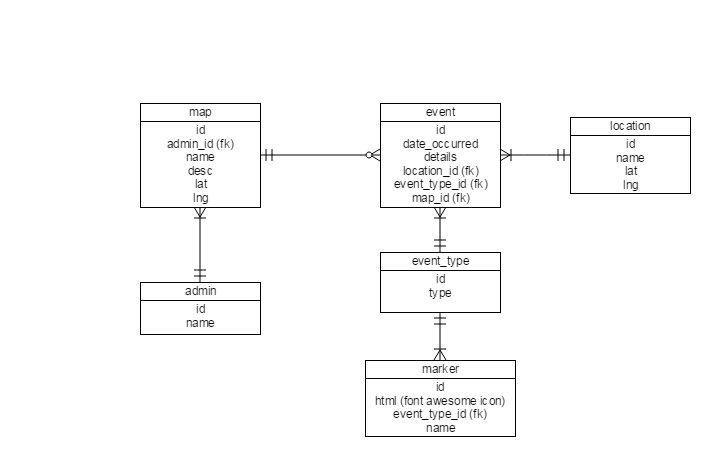
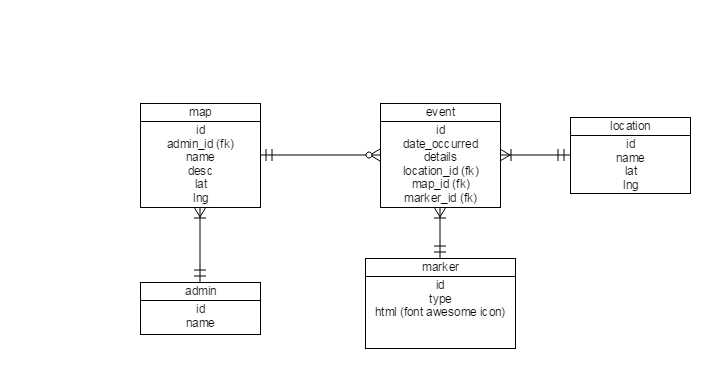
update db and erd

diff --git a/resources/views/maps/map.blade.php b/resources/views/maps/map.blade.php
@@ -13,6 +13,76 @@
 
   <div id="map-canvas" class="map"></div>
 
+  {!! Form::open([ 'action' => 'MapController@createEvent', 'class' => 'clearfix', 'style' => 'padding:1em 3em;']) !!}
+  {!! Form::hidden('map_id', $map->id) !!}
+    <fieldset>
+      <legend>Add Event</legend>
+      <div class="row">
+        <div class="input-field col s4">
+          <input placeholder="" id="lat" name="lat" type="text" class="validate">
+          <label for="lat">Latitude</label>
+          {!! $errors->first('lat', '<p class="text-danger" style="padding:1em;">:message</p>') !!}
+        </div>
+        <div class="input-field col s4">
+          <input placeholder="" id="lng" name="lng" type="text" class="validate">
+          <label for="lng">Longitude</label>
+          {!! $errors->first('lng', '<p class="text-danger" style="padding:1em;">:message</p>') !!}
+        </div>
+        <div class="input-field col s4">
+          <input type="date" class="datepicker">
+        </div>
+      </div>
+
+      <div class="row">
+        <div class="input-field col s12">
+          <textarea placeholder="" id="details" name="details" type="text" class="materialize-textarea validate"></textarea>
+          <label for="details">Details</label>
+          {!! $errors->first('details', '<p class="text-danger" style="padding:1em;">:message</p>') !!}
+        </div>
+      </div>
+
+      <div class="row center">
+        <button class="btn btn-success" type="submit">Create</button>
+      </div>
+    </fieldset>
+  <br>
+  {!! Form::close() !!}
+
+  {!! Form::open([ 'action' => 'MapController@createMarker', 'class' => 'clearfix', 'style' => 'padding:1em 3em;']) !!}
+  {!! Form::hidden('map_id', $map->id) !!}
+  <fieldset>
+    <legend>Add Event</legend>
+    <div class="row">
+      <div class="input-field col s4">
+        <input placeholder="" id="lat" name="lat" type="text" class="validate">
+        <label for="lat">Latitude</label>
+        {!! $errors->first('lat', '<p class="text-danger" style="padding:1em;">:message</p>') !!}
+      </div>
+      <div class="input-field col s4">
+        <input placeholder="" id="lng" name="lng" type="text" class="validate">
+        <label for="lng">Longitude</label>
+        {!! $errors->first('lng', '<p class="text-danger" style="padding:1em;">:message</p>') !!}
+      </div>
+      <div class="input-field col s4">
+        <input type="date" class="datepicker">
+      </div>
+    </div>
+
+    <div class="row">
+      <div class="input-field col s12">
+        <textarea placeholder="" id="details" name="details" type="text" class="materialize-textarea validate"></textarea>
+        <label for="details">Details</label>
+        {!! $errors->first('details', '<p class="text-danger" style="padding:1em;">:message</p>') !!}
+      </div>
+    </div>
+
+    <div class="row center">
+      <button class="btn btn-success" type="submit">Create</button>
+    </div>
+  </fieldset>
+  <br>
+  {!! Form::close() !!}
+
 </div>
 <br><br>
 <style>
@@ -22,6 +92,13 @@
     display: block;
   }
 </style>
+
+<script>
+  $('.datepicker').pickadate({
+    selectMonths: true, // Creates a dropdown to control month
+    selectYears: 15 // Creates a dropdown of 15 years to control year
+  });
+</script>
 
 <script>
   function initialize() {

diff --git a/app/Http/Requests/StoreEventRequest.php b/app/Http/Requests/StoreEventRequest.php
@@ -1,0 +1,30 @@
+<?php
+
+namespace App\Http\Requests;
+
+use App\Http\Requests\Request;
+
+class StoreEventRequest extends Request
+{
+    /**
+     * Determine if the user is authorized to make this request.
+     *
+     * @return bool
+     */
+    public function authorize()
+    {
+        return false;
+    }
+
+    /**
+     * Get the validation rules that apply to the request.
+     *
+     * @return array
+     */
+    public function rules()
+    {
+        return [
+            //
+        ];
+    }
+}

diff --git a/database/migrations/2016_06_20_210400_create_event_table.php b/database/migrations/2016_06_20_210400_create_event_table.php
@@ -22,7 +22,7 @@ class CreateEventTable extends Migration
             $table->integer('marker_id')->unsigned();
             $table->foreign('marker_id')->references('id')->on('marker');
             $table->integer('map_id')->unsigned();
-            $table->foreign('map_id')->references('id')->on('admin');
+            $table->foreign('map_id')->references('id')->on('map');
         });
     }
 

diff --git a/app/Http/Controllers/MapController.php b/app/Http/Controllers/MapController.php
@@ -31,4 +31,10 @@ class MapController extends Controller
         $map = Map::with(['events'])->find($id);
         return view('maps.map', compact('map'));
     }
+
+    public function createEvent(Requests\StoreEventRequest $request)
+    {
+        dd($request);
+
+    }
 }

diff --git a/app/Http/routes.php b/app/Http/routes.php
@@ -15,3 +15,5 @@ Route::get('/', 'HomeController@home');
 Route::get('/create', 'MapController@create');
 Route::post('/store', 'MapController@store');
 Route::get('/map/{id}', 'MapController@map');
+
+Route::post('createEvent', 'MapController@createEvent');
